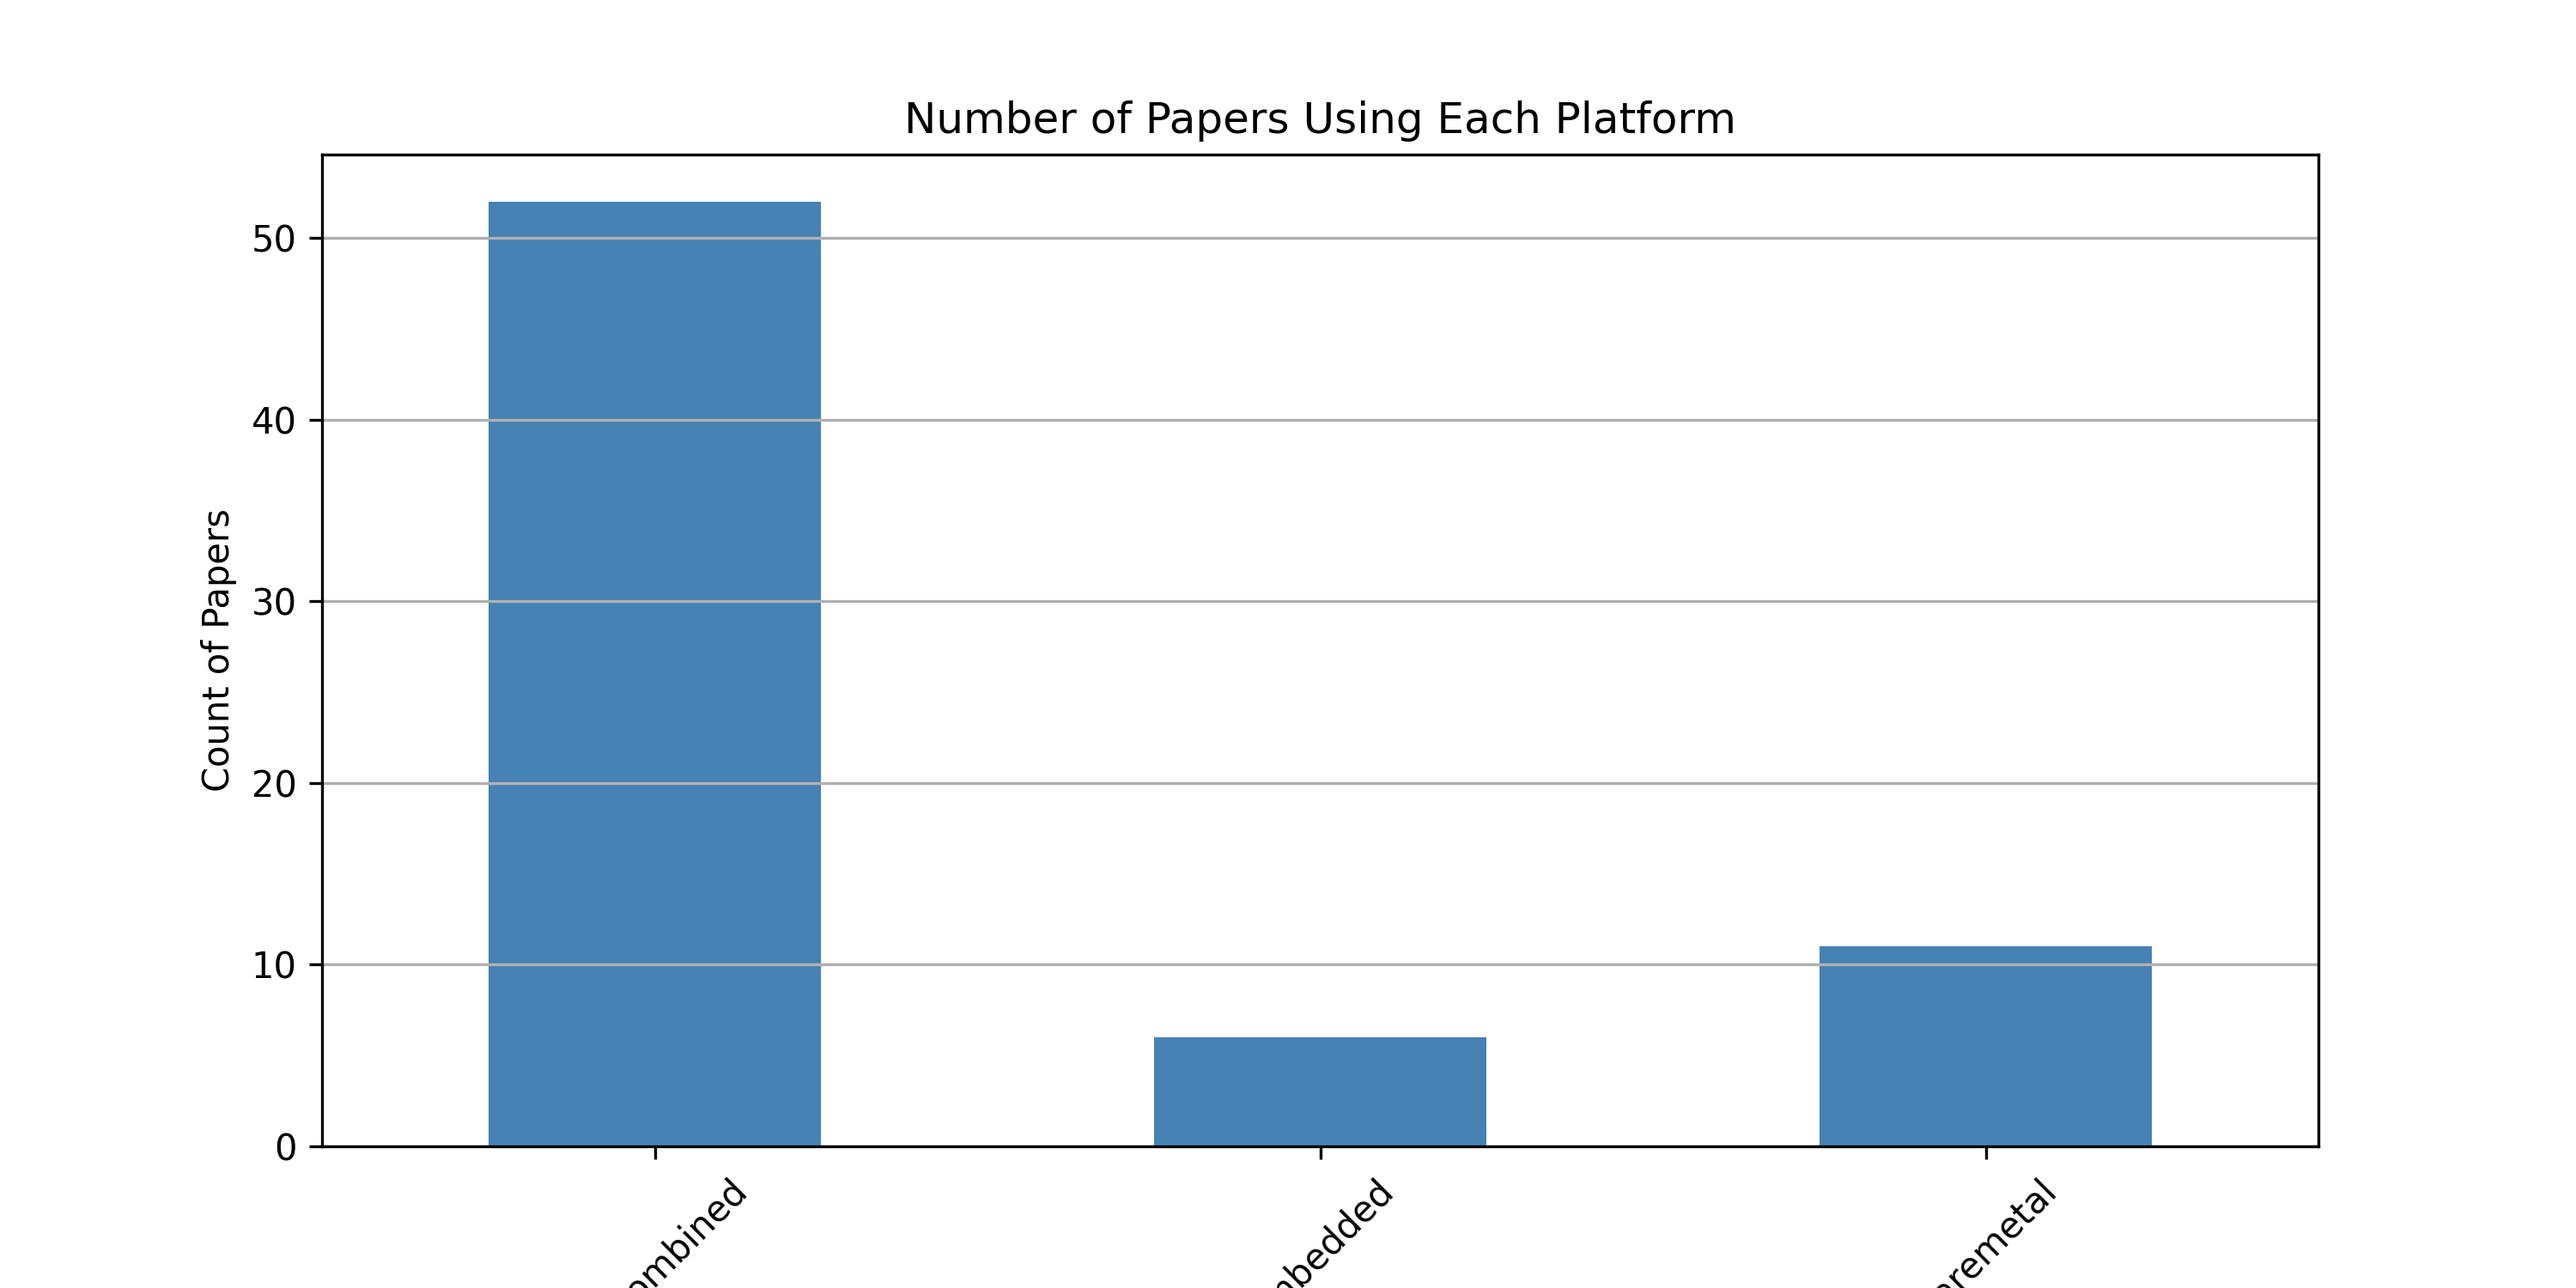
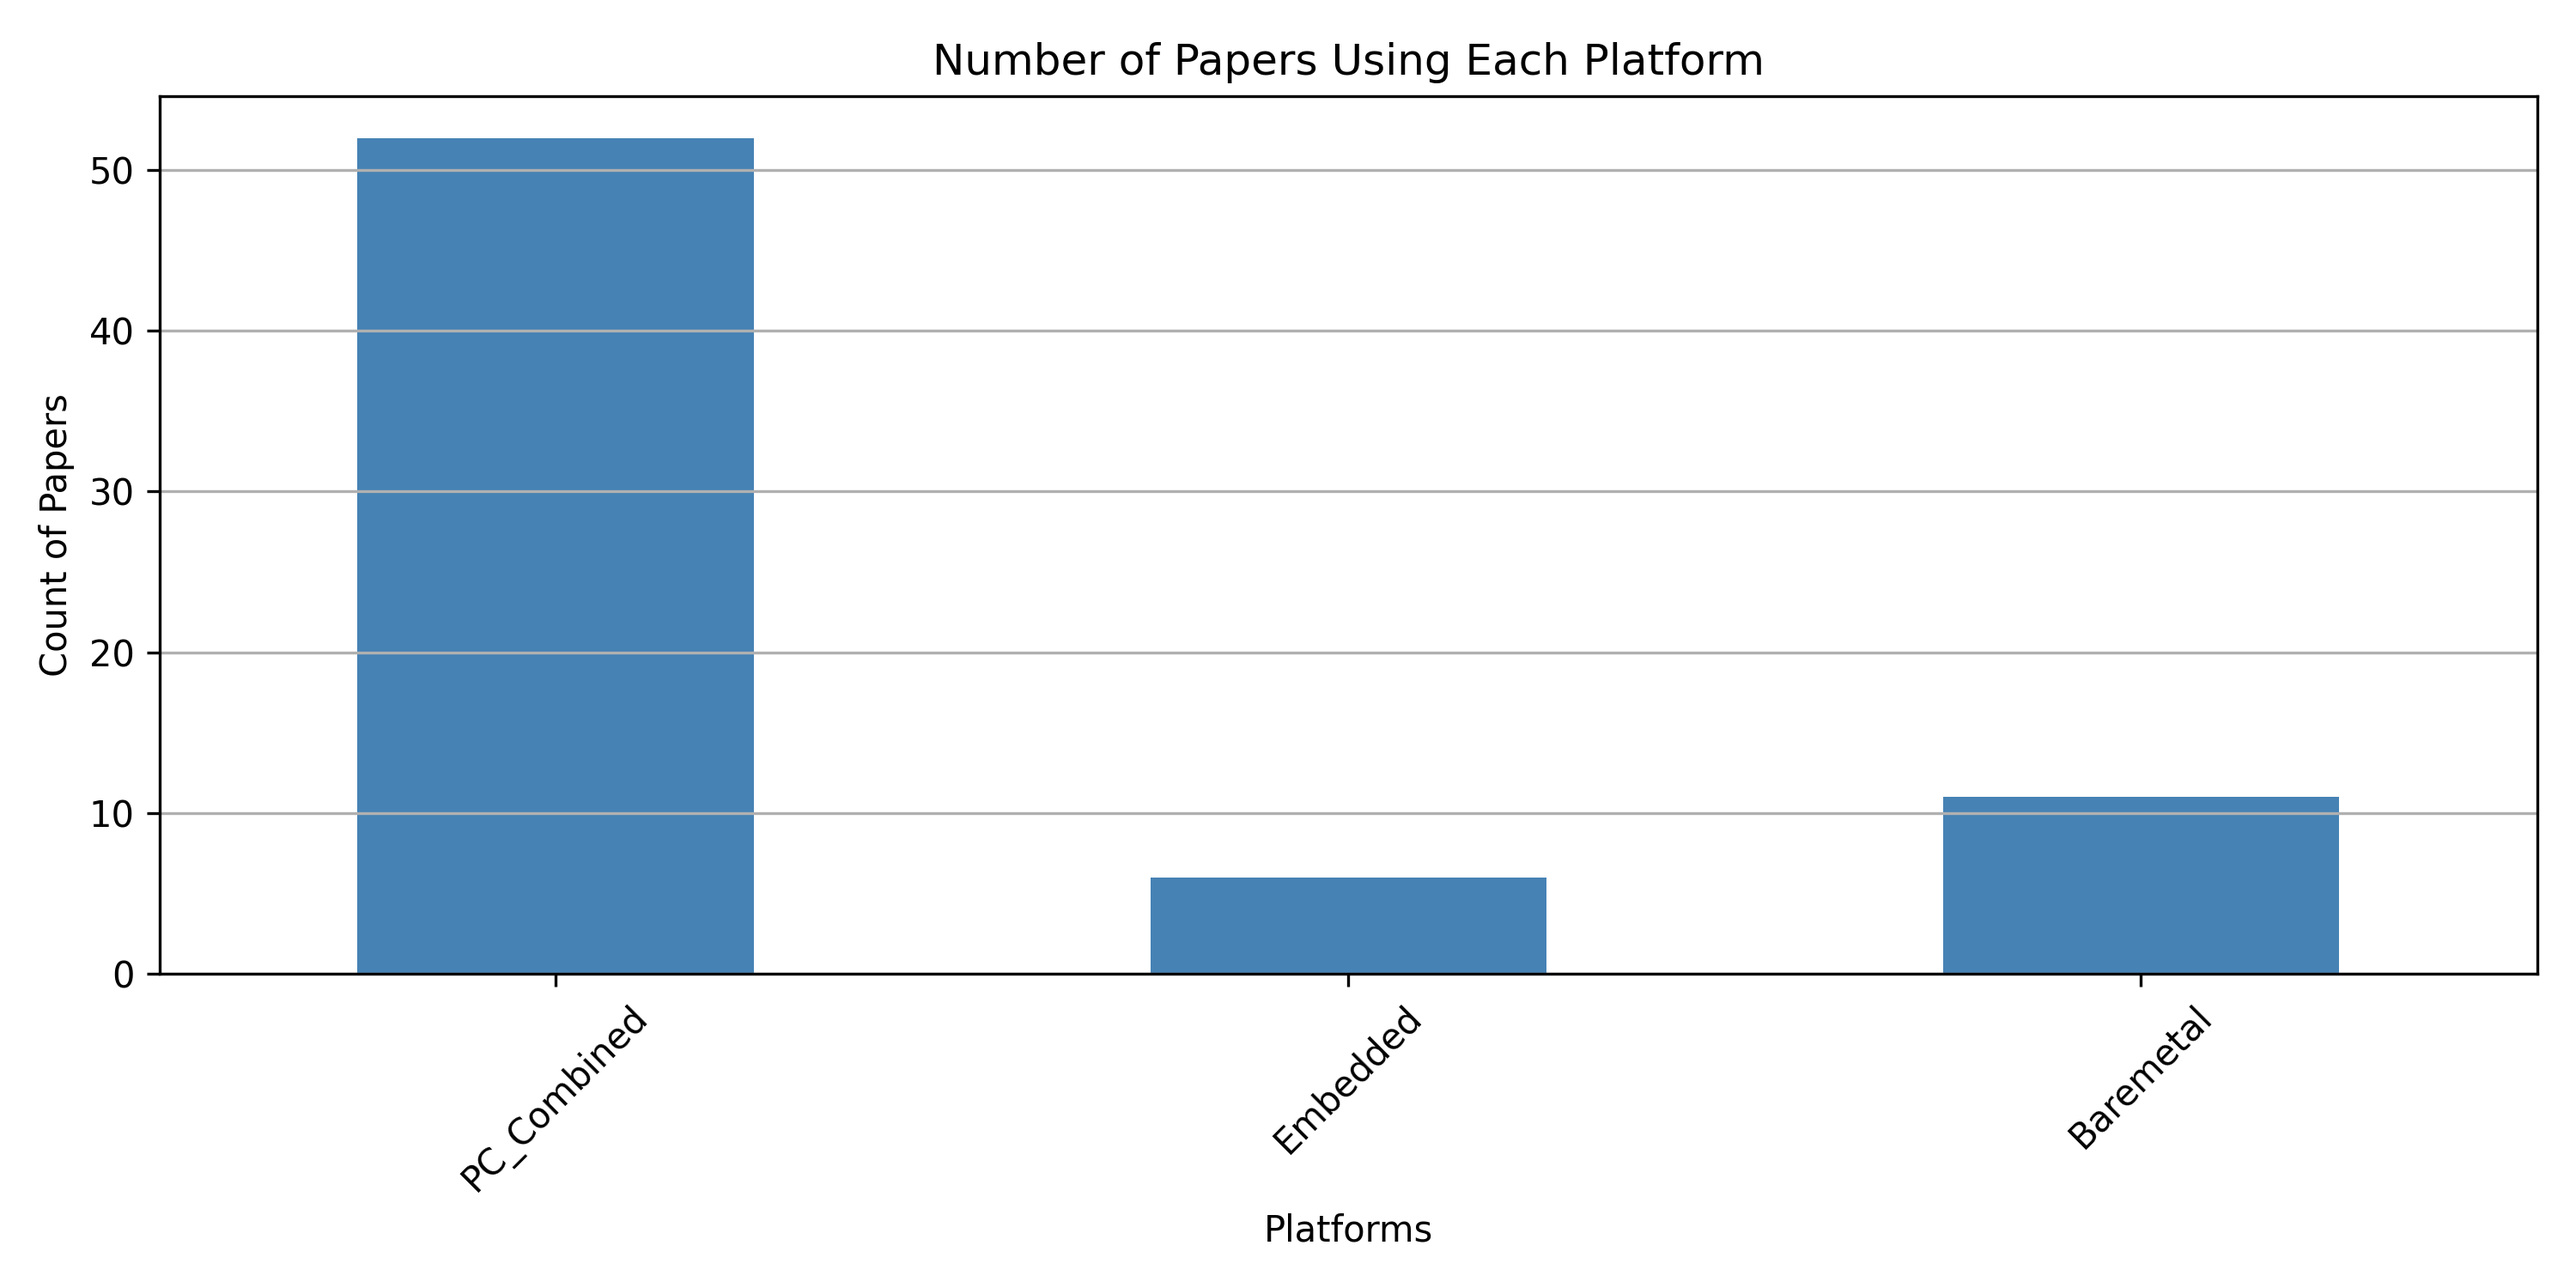
Updated the count_platform_sensor.py such that the saved plots do not cut off the bottom when updated to OverLeaf

diff --git a/count_platform_sensor.py b/count_platform_sensor.py
@@ -39,6 +39,7 @@ plt.xlabel('Platforms')
 plt.ylabel('Count of Papers')
 plt.xticks(rotation=45)
 plt.grid(axis='y')
+plt.tight_layout()  # Adjust layout to prevent cutoff
 plt.savefig("platform_count.png", format='png', dpi=300)
 plt.show()
 
@@ -50,5 +51,6 @@ plt.xlabel('Sensors')
 plt.ylabel('Count of Papers')
 plt.xticks(rotation=45)
 plt.grid(axis='y')
+plt.tight_layout()  # Adjust layout to prevent cutoff
 plt.savefig("sensor_count.png", format='png', dpi=300)
 plt.show()
